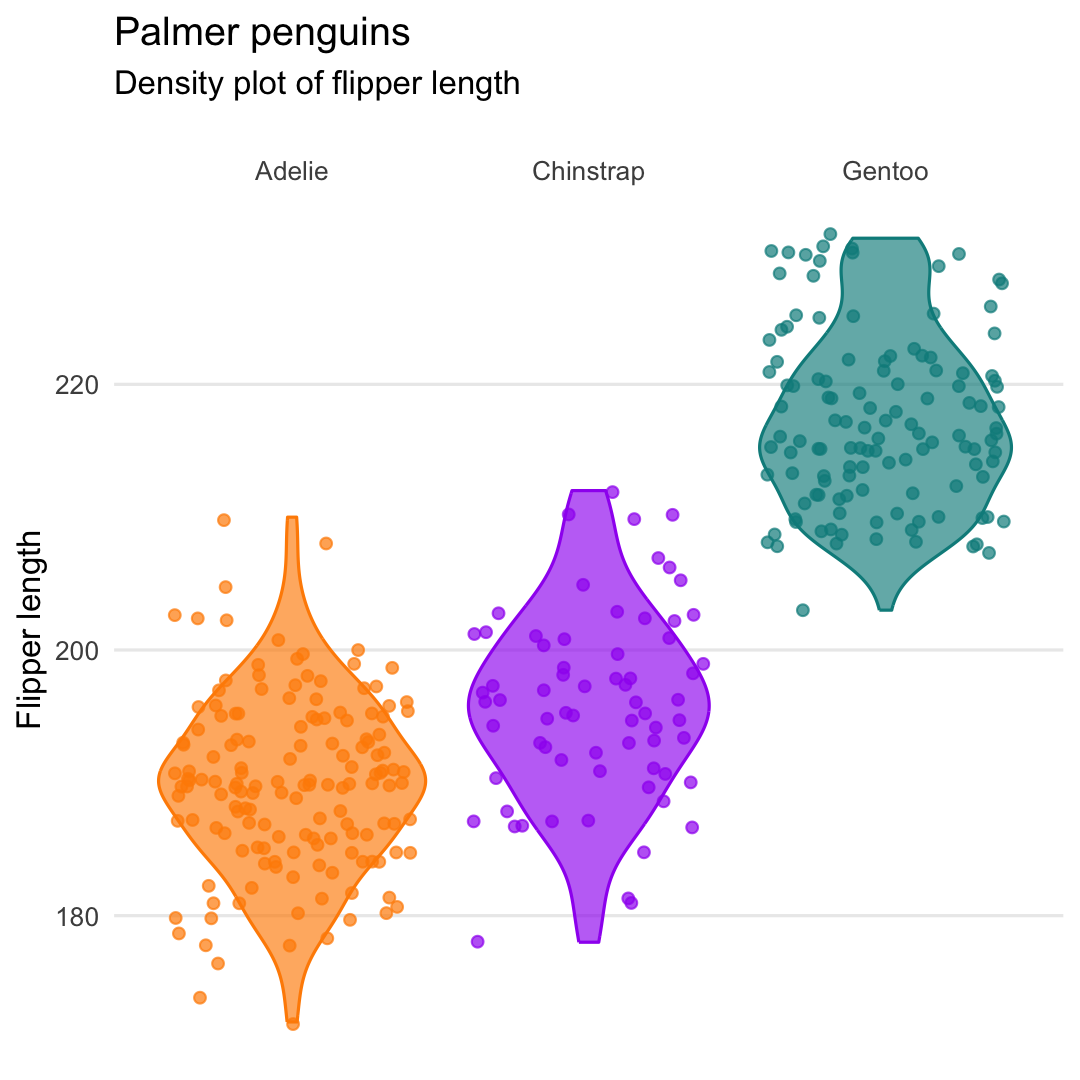
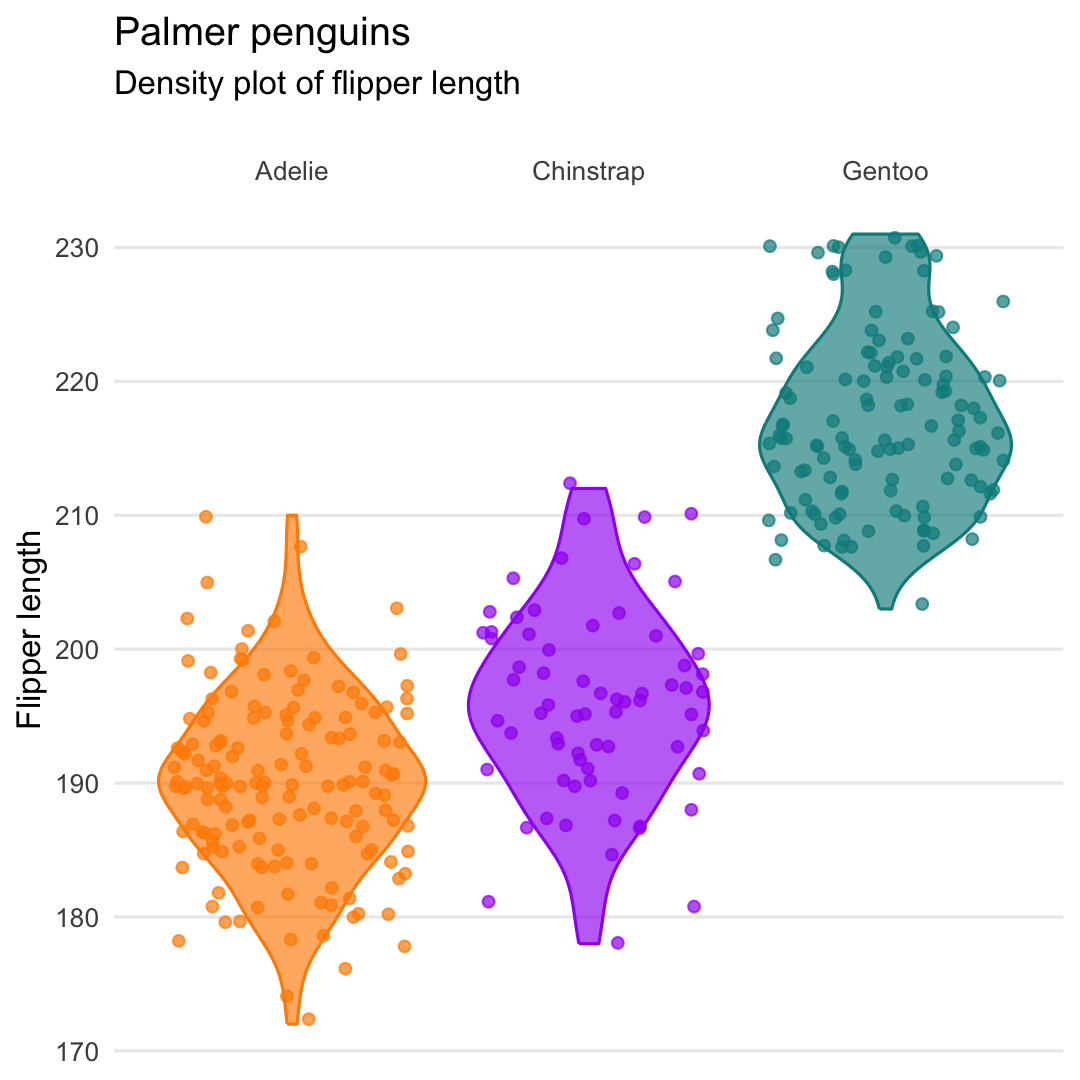
update

diff --git a/Presentations/Part4/slides_part-4.html b/Presentations/Part4/slides_part-4.html
@@ -414,61 +414,21 @@ data("penguins")
    &lt;td style="text-align:left;"&gt; Adelie &lt;/td&gt;
    &lt;td style="text-align:left;"&gt; Dream &lt;/td&gt;
    &lt;td style="text-align:right;"&gt; 41.1 &lt;/td&gt;
-   &lt;td style="text-align:right;"&gt; 18.1 &lt;/td&gt;
-   &lt;td style="text-align:right;"&gt; 205 &lt;/td&gt;
-   &lt;td style="text-align:right;"&gt; 4300 &lt;/td&gt;
-   &lt;td style="text-align:left;"&gt; male &lt;/td&gt;
-   &lt;td style="text-align:right;"&gt; 2008 &lt;/td&gt;
-  &lt;/tr&gt;
-  &lt;tr&gt;
-   &lt;td style="text-align:left;"&gt; Gentoo &lt;/td&gt;
-   &lt;td style="text-align:left;"&gt; Biscoe &lt;/td&gt;
-   &lt;td style="text-align:right;"&gt; 46.4 &lt;/td&gt;
-   &lt;td style="text-align:right;"&gt; 15.0 &lt;/td&gt;
-   &lt;td style="text-align:right;"&gt; 216 &lt;/td&gt;
-   &lt;td style="text-align:right;"&gt; 4700 &lt;/td&gt;
-   &lt;td style="text-align:left;"&gt; female &lt;/td&gt;
-   &lt;td style="text-align:right;"&gt; 2008 &lt;/td&gt;
-  &lt;/tr&gt;
-  &lt;tr&gt;
-   &lt;td style="text-align:left;"&gt; Gentoo &lt;/td&gt;
-   &lt;td style="text-align:left;"&gt; Biscoe &lt;/td&gt;
-   &lt;td style="text-align:right;"&gt; 51.1 &lt;/td&gt;
-   &lt;td style="text-align:right;"&gt; 16.3 &lt;/td&gt;
-   &lt;td style="text-align:right;"&gt; 220 &lt;/td&gt;
-   &lt;td style="text-align:right;"&gt; 6000 &lt;/td&gt;
-   &lt;td style="text-align:left;"&gt; male &lt;/td&gt;
-   &lt;td style="text-align:right;"&gt; 2008 &lt;/td&gt;
-  &lt;/tr&gt;
-  &lt;tr&gt;
-   &lt;td style="text-align:left;"&gt; Gentoo &lt;/td&gt;
-   &lt;td style="text-align:left;"&gt; Biscoe &lt;/td&gt;
-   &lt;td style="text-align:right;"&gt; 48.4 &lt;/td&gt;
-   &lt;td style="text-align:right;"&gt; 14.6 &lt;/td&gt;
-   &lt;td style="text-align:right;"&gt; 213 &lt;/td&gt;
-   &lt;td style="text-align:right;"&gt; 5850 &lt;/td&gt;
-   &lt;td style="text-align:left;"&gt; male &lt;/td&gt;
-   &lt;td style="text-align:right;"&gt; 2007 &lt;/td&gt;
-  &lt;/tr&gt;
-  &lt;tr&gt;
-   &lt;td style="text-align:left;"&gt; Gentoo &lt;/td&gt;
-   &lt;td style="text-align:left;"&gt; Biscoe &lt;/td&gt;
-   &lt;td style="text-align:right;"&gt; 50.5 &lt;/td&gt;
-   &lt;td style="text-align:right;"&gt; 15.2 &lt;/td&gt;
-   &lt;td style="text-align:right;"&gt; 216 &lt;/td&gt;
-   &lt;td style="text-align:right;"&gt; 5000 &lt;/td&gt;
-   &lt;td style="text-align:left;"&gt; female &lt;/td&gt;
-   &lt;td style="text-align:right;"&gt; 2009 &lt;/td&gt;
-  &lt;/tr&gt;
-  &lt;tr&gt;
-   &lt;td style="text-align:left;"&gt; Gentoo &lt;/td&gt;
-   &lt;td style="text-align:left;"&gt; Biscoe &lt;/td&gt;
-   &lt;td style="text-align:right;"&gt; 50.0 &lt;/td&gt;
-   &lt;td style="text-align:right;"&gt; 15.9 &lt;/td&gt;
-   &lt;td style="text-align:right;"&gt; 224 &lt;/td&gt;
-   &lt;td style="text-align:right;"&gt; 5350 &lt;/td&gt;
+   &lt;td style="text-align:right;"&gt; 17.5 &lt;/td&gt;
+   &lt;td style="text-align:right;"&gt; 190 &lt;/td&gt;
+   &lt;td style="text-align:right;"&gt; 3900 &lt;/td&gt;
    &lt;td style="text-align:left;"&gt; male &lt;/td&gt;
    &lt;td style="text-align:right;"&gt; 2009 &lt;/td&gt;
+  &lt;/tr&gt;
+  &lt;tr&gt;
+   &lt;td style="text-align:left;"&gt; Gentoo &lt;/td&gt;
+   &lt;td style="text-align:left;"&gt; Biscoe &lt;/td&gt;
+   &lt;td style="text-align:right;"&gt; 44.0 &lt;/td&gt;
+   &lt;td style="text-align:right;"&gt; 13.6 &lt;/td&gt;
+   &lt;td style="text-align:right;"&gt; 208 &lt;/td&gt;
+   &lt;td style="text-align:right;"&gt; 4350 &lt;/td&gt;
+   &lt;td style="text-align:left;"&gt; female &lt;/td&gt;
+   &lt;td style="text-align:right;"&gt; 2008 &lt;/td&gt;
   &lt;/tr&gt;
   &lt;tr&gt;
    &lt;td style="text-align:left;"&gt; Adelie &lt;/td&gt;
@@ -483,32 +443,72 @@ data("penguins")
   &lt;tr&gt;
    &lt;td style="text-align:left;"&gt; Gentoo &lt;/td&gt;
    &lt;td style="text-align:left;"&gt; Biscoe &lt;/td&gt;
-   &lt;td style="text-align:right;"&gt; 50.4 &lt;/td&gt;
-   &lt;td style="text-align:right;"&gt; 15.7 &lt;/td&gt;
-   &lt;td style="text-align:right;"&gt; 222 &lt;/td&gt;
-   &lt;td style="text-align:right;"&gt; 5750 &lt;/td&gt;
-   &lt;td style="text-align:left;"&gt; male &lt;/td&gt;
-   &lt;td style="text-align:right;"&gt; 2009 &lt;/td&gt;
-  &lt;/tr&gt;
-  &lt;tr&gt;
-   &lt;td style="text-align:left;"&gt; Adelie &lt;/td&gt;
-   &lt;td style="text-align:left;"&gt; Dream &lt;/td&gt;
-   &lt;td style="text-align:right;"&gt; 33.1 &lt;/td&gt;
-   &lt;td style="text-align:right;"&gt; 16.1 &lt;/td&gt;
-   &lt;td style="text-align:right;"&gt; 178 &lt;/td&gt;
-   &lt;td style="text-align:right;"&gt; 2900 &lt;/td&gt;
+   &lt;td style="text-align:right;"&gt; 45.5 &lt;/td&gt;
+   &lt;td style="text-align:right;"&gt; 13.9 &lt;/td&gt;
+   &lt;td style="text-align:right;"&gt; 210 &lt;/td&gt;
+   &lt;td style="text-align:right;"&gt; 4200 &lt;/td&gt;
    &lt;td style="text-align:left;"&gt; female &lt;/td&gt;
    &lt;td style="text-align:right;"&gt; 2008 &lt;/td&gt;
   &lt;/tr&gt;
   &lt;tr&gt;
    &lt;td style="text-align:left;"&gt; Chinstrap &lt;/td&gt;
    &lt;td style="text-align:left;"&gt; Dream &lt;/td&gt;
-   &lt;td style="text-align:right;"&gt; 52.0 &lt;/td&gt;
-   &lt;td style="text-align:right;"&gt; 18.1 &lt;/td&gt;
-   &lt;td style="text-align:right;"&gt; 201 &lt;/td&gt;
-   &lt;td style="text-align:right;"&gt; 4050 &lt;/td&gt;
+   &lt;td style="text-align:right;"&gt; 52.7 &lt;/td&gt;
+   &lt;td style="text-align:right;"&gt; 19.8 &lt;/td&gt;
+   &lt;td style="text-align:right;"&gt; 197 &lt;/td&gt;
+   &lt;td style="text-align:right;"&gt; 3725 &lt;/td&gt;
    &lt;td style="text-align:left;"&gt; male &lt;/td&gt;
    &lt;td style="text-align:right;"&gt; 2007 &lt;/td&gt;
+  &lt;/tr&gt;
+  &lt;tr&gt;
+   &lt;td style="text-align:left;"&gt; Adelie &lt;/td&gt;
+   &lt;td style="text-align:left;"&gt; Torgersen &lt;/td&gt;
+   &lt;td style="text-align:right;"&gt; 38.8 &lt;/td&gt;
+   &lt;td style="text-align:right;"&gt; 17.6 &lt;/td&gt;
+   &lt;td style="text-align:right;"&gt; 191 &lt;/td&gt;
+   &lt;td style="text-align:right;"&gt; 3275 &lt;/td&gt;
+   &lt;td style="text-align:left;"&gt; female &lt;/td&gt;
+   &lt;td style="text-align:right;"&gt; 2009 &lt;/td&gt;
+  &lt;/tr&gt;
+  &lt;tr&gt;
+   &lt;td style="text-align:left;"&gt; Chinstrap &lt;/td&gt;
+   &lt;td style="text-align:left;"&gt; Dream &lt;/td&gt;
+   &lt;td style="text-align:right;"&gt; 45.2 &lt;/td&gt;
+   &lt;td style="text-align:right;"&gt; 17.8 &lt;/td&gt;
+   &lt;td style="text-align:right;"&gt; 198 &lt;/td&gt;
+   &lt;td style="text-align:right;"&gt; 3950 &lt;/td&gt;
+   &lt;td style="text-align:left;"&gt; female &lt;/td&gt;
+   &lt;td style="text-align:right;"&gt; 2007 &lt;/td&gt;
+  &lt;/tr&gt;
+  &lt;tr&gt;
+   &lt;td style="text-align:left;"&gt; Adelie &lt;/td&gt;
+   &lt;td style="text-align:left;"&gt; Dream &lt;/td&gt;
+   &lt;td style="text-align:right;"&gt; 37.6 &lt;/td&gt;
+   &lt;td style="text-align:right;"&gt; 19.3 &lt;/td&gt;
+   &lt;td style="text-align:right;"&gt; 181 &lt;/td&gt;
+   &lt;td style="text-align:right;"&gt; 3300 &lt;/td&gt;
+   &lt;td style="text-align:left;"&gt; female &lt;/td&gt;
+   &lt;td style="text-align:right;"&gt; 2007 &lt;/td&gt;
+  &lt;/tr&gt;
+  &lt;tr&gt;
+   &lt;td style="text-align:left;"&gt; Adelie &lt;/td&gt;
+   &lt;td style="text-align:left;"&gt; Biscoe &lt;/td&gt;
+   &lt;td style="text-align:right;"&gt; 36.5 &lt;/td&gt;
+   &lt;td style="text-align:right;"&gt; 16.6 &lt;/td&gt;
+   &lt;td style="text-align:right;"&gt; 181 &lt;/td&gt;
+   &lt;td style="text-align:right;"&gt; 2850 &lt;/td&gt;
+   &lt;td style="text-align:left;"&gt; female &lt;/td&gt;
+   &lt;td style="text-align:right;"&gt; 2008 &lt;/td&gt;
+  &lt;/tr&gt;
+  &lt;tr&gt;
+   &lt;td style="text-align:left;"&gt; Adelie &lt;/td&gt;
+   &lt;td style="text-align:left;"&gt; Torgersen &lt;/td&gt;
+   &lt;td style="text-align:right;"&gt; 39.0 &lt;/td&gt;
+   &lt;td style="text-align:right;"&gt; 17.1 &lt;/td&gt;
+   &lt;td style="text-align:right;"&gt; 191 &lt;/td&gt;
+   &lt;td style="text-align:right;"&gt; 3050 &lt;/td&gt;
+   &lt;td style="text-align:left;"&gt; female &lt;/td&gt;
+   &lt;td style="text-align:right;"&gt; 2009 &lt;/td&gt;
   &lt;/tr&gt;
 &lt;/tbody&gt;
 &lt;/table&gt;
@@ -1424,7 +1424,7 @@ class: inverse-blue
 ![](https://media.giphy.com/media/A9grgCQ0Dm012/giphy.gif)
 ]
 .right-column[
-- You can find the qmd-file .SW-greenD[ `Exercises_ggplot2.qmd`] on the Open Science Framework (Exercises &gt; Exercise3_ggplot2)
+- You can find the qmd-file .SW-greenD[ `Exercises_ggplot2.qmd`] at the course website.
 
 - Download this file to your laptop
 
@@ -1860,7 +1860,7 @@ class: inverse-blue
 ![](https://media.giphy.com/media/A9grgCQ0Dm012/giphy.gif)
 ]
 .right-column[
-- You can find the qmd-file .SW-greenD[ `Exercises_ggplot2.qmd`] on the Open Science Framework (Exercises &gt; Exercise3_ggplot2)
+- You can find the qmd-file .SW-greenD[ `Exercises_ggplot2.qmd`] at the course website.
 
 - Download this file to your laptop
 

diff --git a/Index.html b/Index.html
@@ -2756,7 +2756,7 @@ lab-reports and slideshows.</p>
 <div id="slides-1" class="section level4">
 <h4>Slides</h4>
 <p>The htlm-version of the slides for this part can be found
-<a href="Presentations/Part2/Slides_part2.html" target="blank">here</a></p>
+<a href="Presentations/Part2/Slides_Part2.html" target="blank">here</a></p>
 </div>
 <div id="data" class="section level4">
 <h4>Data</h4>
